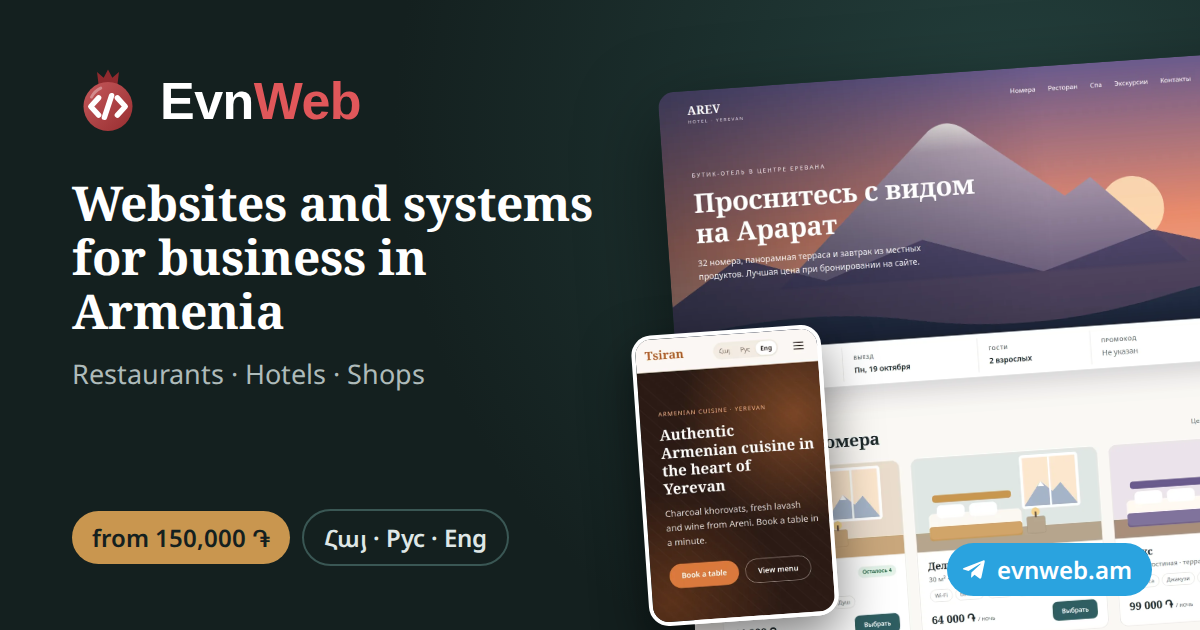
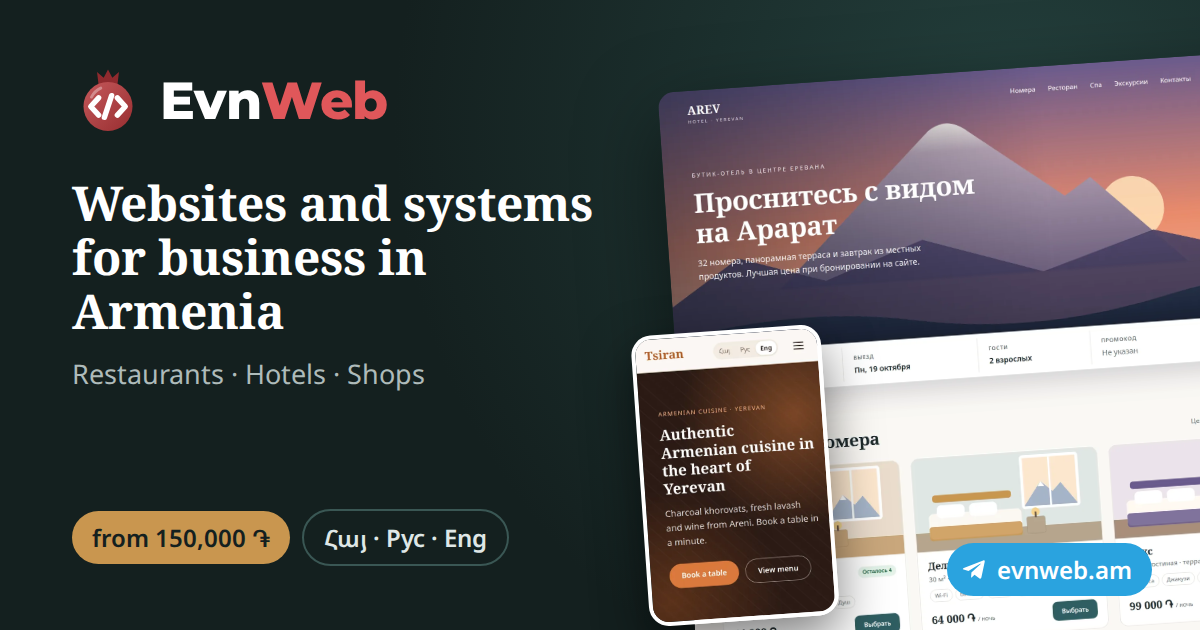
Логотип: правильный файл шрифта Montserrat (латиница) (#90)
В прошлый раз скачался файл latin-ext без обычных букв, и надпись EvnWeb показывалась запасным шрифтом.

Claude-Session: https://claude.ai/code/session_01ECTfTWVv8YtRapYTrQUwab

Changed region(s): [[0.1233, 0.1206, 0.3392, 0.2111]]

diff --git a/site/index.html b/site/index.html
@@ -38,7 +38,7 @@
 <link rel="alternate" hreflang="x-default" href="https://evnweb.am/">
 <link rel="preload" href="assets/fonts/NotoSansArmenian-var-armenian.woff2" as="font" type="font/woff2" crossorigin>
 <link rel="preload" href="assets/fonts/Manrope-var-latin.woff2" as="font" type="font/woff2" crossorigin>
-<link rel="stylesheet" href="assets/fonts/fonts.css?v=2">
+<link rel="stylesheet" href="assets/fonts/fonts.css?v=3">
 <link rel="stylesheet" href="assets/css/site.css?v=10">
 <script type="application/ld+json">{"@context":"https://schema.org","@graph":[{"@type":"ProfessionalService","@id":"https://evnweb.am/#business","name":"EVNWEB","url":"https://evnweb.am/","logo":"https://evnweb.am/assets/img/logo-180.png","image":"https://evnweb.am/assets/img/og.png","description":"Կայքերի և համակարգերի մշակում ռեստորանների, հյուրանոցների և խանութների համար Երևանում։","telephone":"+37493401179","email":"vip.azatazat@gmail.com","founder":{"@type":"Person","name":"Ազատ"},"address":{"@type":"PostalAddress","addressLocality":"Երևան","addressCountry":"AM"},"geo":{"@type":"GeoCoordinates","latitude":40.1792,"longitude":44.4991},"areaServed":{"@type":"Country","name":"Armenia"},"availableLanguage":["hy","ru","en"],"priceRange":"150000–1500000 AMD","currenciesAccepted":"AMD","sameAs":["https://t.me/+37493401179","https://www.instagram.com/evnweb/"],"contactPoint":{"@type":"ContactPoint","telephone":"+37493401179","contactType":"customer service","availableLanguage":["Armenian","Russian","English"]},"hasOfferCatalog":{"@type":"OfferCatalog","name":"Կայքերի պատրաստում","itemListElement":[{"@type":"Offer","itemOffered":{"@type":"Service","name":"Լենդինգ կամ կայք-այցեքարտ"},"priceSpecification":{"@type":"PriceSpecification","minPrice":150000,"priceCurrency":"AMD"}},{"@type":"Offer","itemOffered":{"@type":"Service","name":"Ռեստորանի կամ սրճարանի կայք"},"priceSpecification":{"@type":"PriceSpecification","minPrice":280000,"priceCurrency":"AMD"}},{"@type":"Offer","itemOffered":{"@type":"Service","name":"Հյուրանոցի կայք ամրագրմամբ"},"priceSpecification":{"@type":"PriceSpecification","minPrice":450000,"priceCurrency":"AMD"}},{"@type":"Offer","itemOffered":{"@type":"Service","name":"Առցանց խանութ"},"priceSpecification":{"@type":"PriceSpecification","minPrice":400000,"priceCurrency":"AMD"}},{"@type":"Offer","itemOffered":{"@type":"Service","name":"Հաշվառում խանութի համար"},"priceSpecification":{"@type":"PriceSpecification","minPrice":650000,"priceCurrency":"AMD"}},{"@type":"Offer","itemOffered":{"@type":"Service","name":"Սպասարկում"},"priceSpecification":{"@type":"PriceSpecification","minPrice":25000,"priceCurrency":"AMD"}}]}},{"@type":"WebSite","@id":"https://evnweb.am/#website","url":"https://evnweb.am/","name":"EVNWEB","inLanguage":["hy","ru","en"],"publisher":{"@id":"https://evnweb.am/#business"}},{"@type":"WebPage","url":"https://evnweb.am/","name":"Կայքերի պատրաստում Երևանում՝ ռեստորան, հյուրանոց, խանութ | EVNWEB","description":"Կայքերի պատրաստում Երևանում՝ ռեստորանների, հյուրանոցների և խանութների համար։ Առցանց ամրագրում, ադմին վահանակ, ապրանքների հաշվառում, 3 լեզու։ Գները՝ 150 000 ֏-ից։","inLanguage":"hy","isPartOf":{"@id":"https://evnweb.am/#website"},"about":{"@id":"https://evnweb.am/#business"}}]}</script>
 <!-- Yandex.Metrika counter -->

diff --git a/site/ru/index.html b/site/ru/index.html
@@ -37,7 +37,7 @@
 <link rel="alternate" hreflang="x-default" href="https://evnweb.am/">
 <link rel="preload" href="../assets/fonts/Manrope-var-cyrillic.woff2" as="font" type="font/woff2" crossorigin>
 <link rel="preload" href="../assets/fonts/Manrope-var-latin.woff2" as="font" type="font/woff2" crossorigin>
-<link rel="stylesheet" href="../assets/fonts/fonts.css?v=2">
+<link rel="stylesheet" href="../assets/fonts/fonts.css?v=3">
 <link rel="stylesheet" href="../assets/css/site.css?v=10">
 <script type="application/ld+json">{"@context":"https://schema.org","@graph":[{"@type":"ProfessionalService","@id":"https://evnweb.am/#business","name":"EVNWEB","url":"https://evnweb.am/ru/","logo":"https://evnweb.am/assets/img/logo-180.png","image":"https://evnweb.am/assets/img/og.png","description":"Разработка сайтов и систем для ресторанов, отелей и магазинов в Ереване.","telephone":"+37493401179","email":"vip.azatazat@gmail.com","founder":{"@type":"Person","name":"Азат"},"address":{"@type":"PostalAddress","addressLocality":"Ереван","addressCountry":"AM"},"geo":{"@type":"GeoCoordinates","latitude":40.1792,"longitude":44.4991},"areaServed":{"@type":"Country","name":"Armenia"},"availableLanguage":["hy","ru","en"],"priceRange":"150000–1500000 AMD","currenciesAccepted":"AMD","sameAs":["https://t.me/+37493401179","https://www.instagram.com/evnweb/"],"contactPoint":{"@type":"ContactPoint","telephone":"+37493401179","contactType":"customer service","availableLanguage":["Armenian","Russian","English"]},"hasOfferCatalog":{"@type":"OfferCatalog","name":"Разработка сайтов","itemListElement":[{"@type":"Offer","itemOffered":{"@type":"Service","name":"Лендинг или сайт-визитка"},"priceSpecification":{"@type":"PriceSpecification","minPrice":150000,"priceCurrency":"AMD"}},{"@type":"Offer","itemOffered":{"@type":"Service","name":"Сайт ресторана или кафе"},"priceSpecification":{"@type":"PriceSpecification","minPrice":280000,"priceCurrency":"AMD"}},{"@type":"Offer","itemOffered":{"@type":"Service","name":"Сайт отеля с бронированием"},"priceSpecification":{"@type":"PriceSpecification","minPrice":450000,"priceCurrency":"AMD"}},{"@type":"Offer","itemOffered":{"@type":"Service","name":"Интернет-магазин"},"priceSpecification":{"@type":"PriceSpecification","minPrice":400000,"priceCurrency":"AMD"}},{"@type":"Offer","itemOffered":{"@type":"Service","name":"Учёт для магазина"},"priceSpecification":{"@type":"PriceSpecification","minPrice":650000,"priceCurrency":"AMD"}},{"@type":"Offer","itemOffered":{"@type":"Service","name":"Поддержка"},"priceSpecification":{"@type":"PriceSpecification","minPrice":25000,"priceCurrency":"AMD"}}]}},{"@type":"WebSite","@id":"https://evnweb.am/#website","url":"https://evnweb.am/","name":"EVNWEB","inLanguage":["hy","ru","en"],"publisher":{"@id":"https://evnweb.am/#business"}},{"@type":"WebPage","url":"https://evnweb.am/ru/","name":"Разработка сайтов в Ереване: ресторан, отель, магазин | EVNWEB","description":"Разработка сайтов в Ереване для ресторанов, отелей и магазинов: онлайн-бронирование, админка, учёт товаров, 3 языка. Цены от 150 000 ֏.","inLanguage":"ru","isPartOf":{"@id":"https://evnweb.am/#website"},"about":{"@id":"https://evnweb.am/#business"}}]}</script>
 <!-- Yandex.Metrika counter -->

diff --git a/site/en/index.html b/site/en/index.html
@@ -36,7 +36,7 @@
 <link rel="alternate" hreflang="en" href="https://evnweb.am/en/">
 <link rel="alternate" hreflang="x-default" href="https://evnweb.am/">
 <link rel="preload" href="../assets/fonts/Manrope-var-latin.woff2" as="font" type="font/woff2" crossorigin>
-<link rel="stylesheet" href="../assets/fonts/fonts.css?v=2">
+<link rel="stylesheet" href="../assets/fonts/fonts.css?v=3">
 <link rel="stylesheet" href="../assets/css/site.css?v=10">
 <script type="application/ld+json">{"@context":"https://schema.org","@graph":[{"@type":"ProfessionalService","@id":"https://evnweb.am/#business","name":"EVNWEB","url":"https://evnweb.am/en/","logo":"https://evnweb.am/assets/img/logo-180.png","image":"https://evnweb.am/assets/img/og.png","description":"Websites and business systems for restaurants, hotels and shops in Yerevan.","telephone":"+37493401179","email":"vip.azatazat@gmail.com","founder":{"@type":"Person","name":"Azat"},"address":{"@type":"PostalAddress","addressLocality":"Yerevan","addressCountry":"AM"},"geo":{"@type":"GeoCoordinates","latitude":40.1792,"longitude":44.4991},"areaServed":{"@type":"Country","name":"Armenia"},"availableLanguage":["hy","ru","en"],"priceRange":"150000–1500000 AMD","currenciesAccepted":"AMD","sameAs":["https://t.me/+37493401179","https://www.instagram.com/evnweb/"],"contactPoint":{"@type":"ContactPoint","telephone":"+37493401179","contactType":"customer service","availableLanguage":["Armenian","Russian","English"]},"hasOfferCatalog":{"@type":"OfferCatalog","name":"Website development","itemListElement":[{"@type":"Offer","itemOffered":{"@type":"Service","name":"Landing page or business card site"},"priceSpecification":{"@type":"PriceSpecification","minPrice":150000,"priceCurrency":"AMD"}},{"@type":"Offer","itemOffered":{"@type":"Service","name":"Restaurant or cafe website"},"priceSpecification":{"@type":"PriceSpecification","minPrice":280000,"priceCurrency":"AMD"}},{"@type":"Offer","itemOffered":{"@type":"Service","name":"Hotel website with booking"},"priceSpecification":{"@type":"PriceSpecification","minPrice":450000,"priceCurrency":"AMD"}},{"@type":"Offer","itemOffered":{"@type":"Service","name":"Online shop"},"priceSpecification":{"@type":"PriceSpecification","minPrice":400000,"priceCurrency":"AMD"}},{"@type":"Offer","itemOffered":{"@type":"Service","name":"Inventory for a shop"},"priceSpecification":{"@type":"PriceSpecification","minPrice":650000,"priceCurrency":"AMD"}},{"@type":"Offer","itemOffered":{"@type":"Service","name":"Support"},"priceSpecification":{"@type":"PriceSpecification","minPrice":25000,"priceCurrency":"AMD"}}]}},{"@type":"WebSite","@id":"https://evnweb.am/#website","url":"https://evnweb.am/","name":"EVNWEB","inLanguage":["hy","ru","en"],"publisher":{"@id":"https://evnweb.am/#business"}},{"@type":"WebPage","url":"https://evnweb.am/en/","name":"Website development in Yerevan: restaurants, hotels, shops | EVNWEB","description":"Website development in Yerevan for restaurants, hotels and shops: online booking, admin panel, inventory, 3 languages. Prices from 150,000 ֏.","inLanguage":"en","isPartOf":{"@id":"https://evnweb.am/#website"},"about":{"@id":"https://evnweb.am/#business"}}]}</script>
 <!-- Yandex.Metrika counter -->

diff --git a/src/page.html b/src/page.html
@@ -32,7 +32,7 @@
 <link rel="canonical" href="{{url}}">
 {{alternates}}
 {{preload}}
-<link rel="stylesheet" href="{{root}}assets/fonts/fonts.css?v=2">
+<link rel="stylesheet" href="{{root}}assets/fonts/fonts.css?v=3">
 <link rel="stylesheet" href="{{root}}assets/css/site.css?v=10">
 {{jsonld}}
 <!-- Yandex.Metrika counter -->

diff --git a/site/assets/fonts/fonts.css b/site/assets/fonts/fonts.css
@@ -191,5 +191,5 @@
   font-style: normal;
   font-weight: 800;
   font-display: swap;
-  src: url(montserrat-800-latin.woff2) format('woff2');
+  src: url(montserrat-800-latin-2.woff2) format('woff2');
 }
